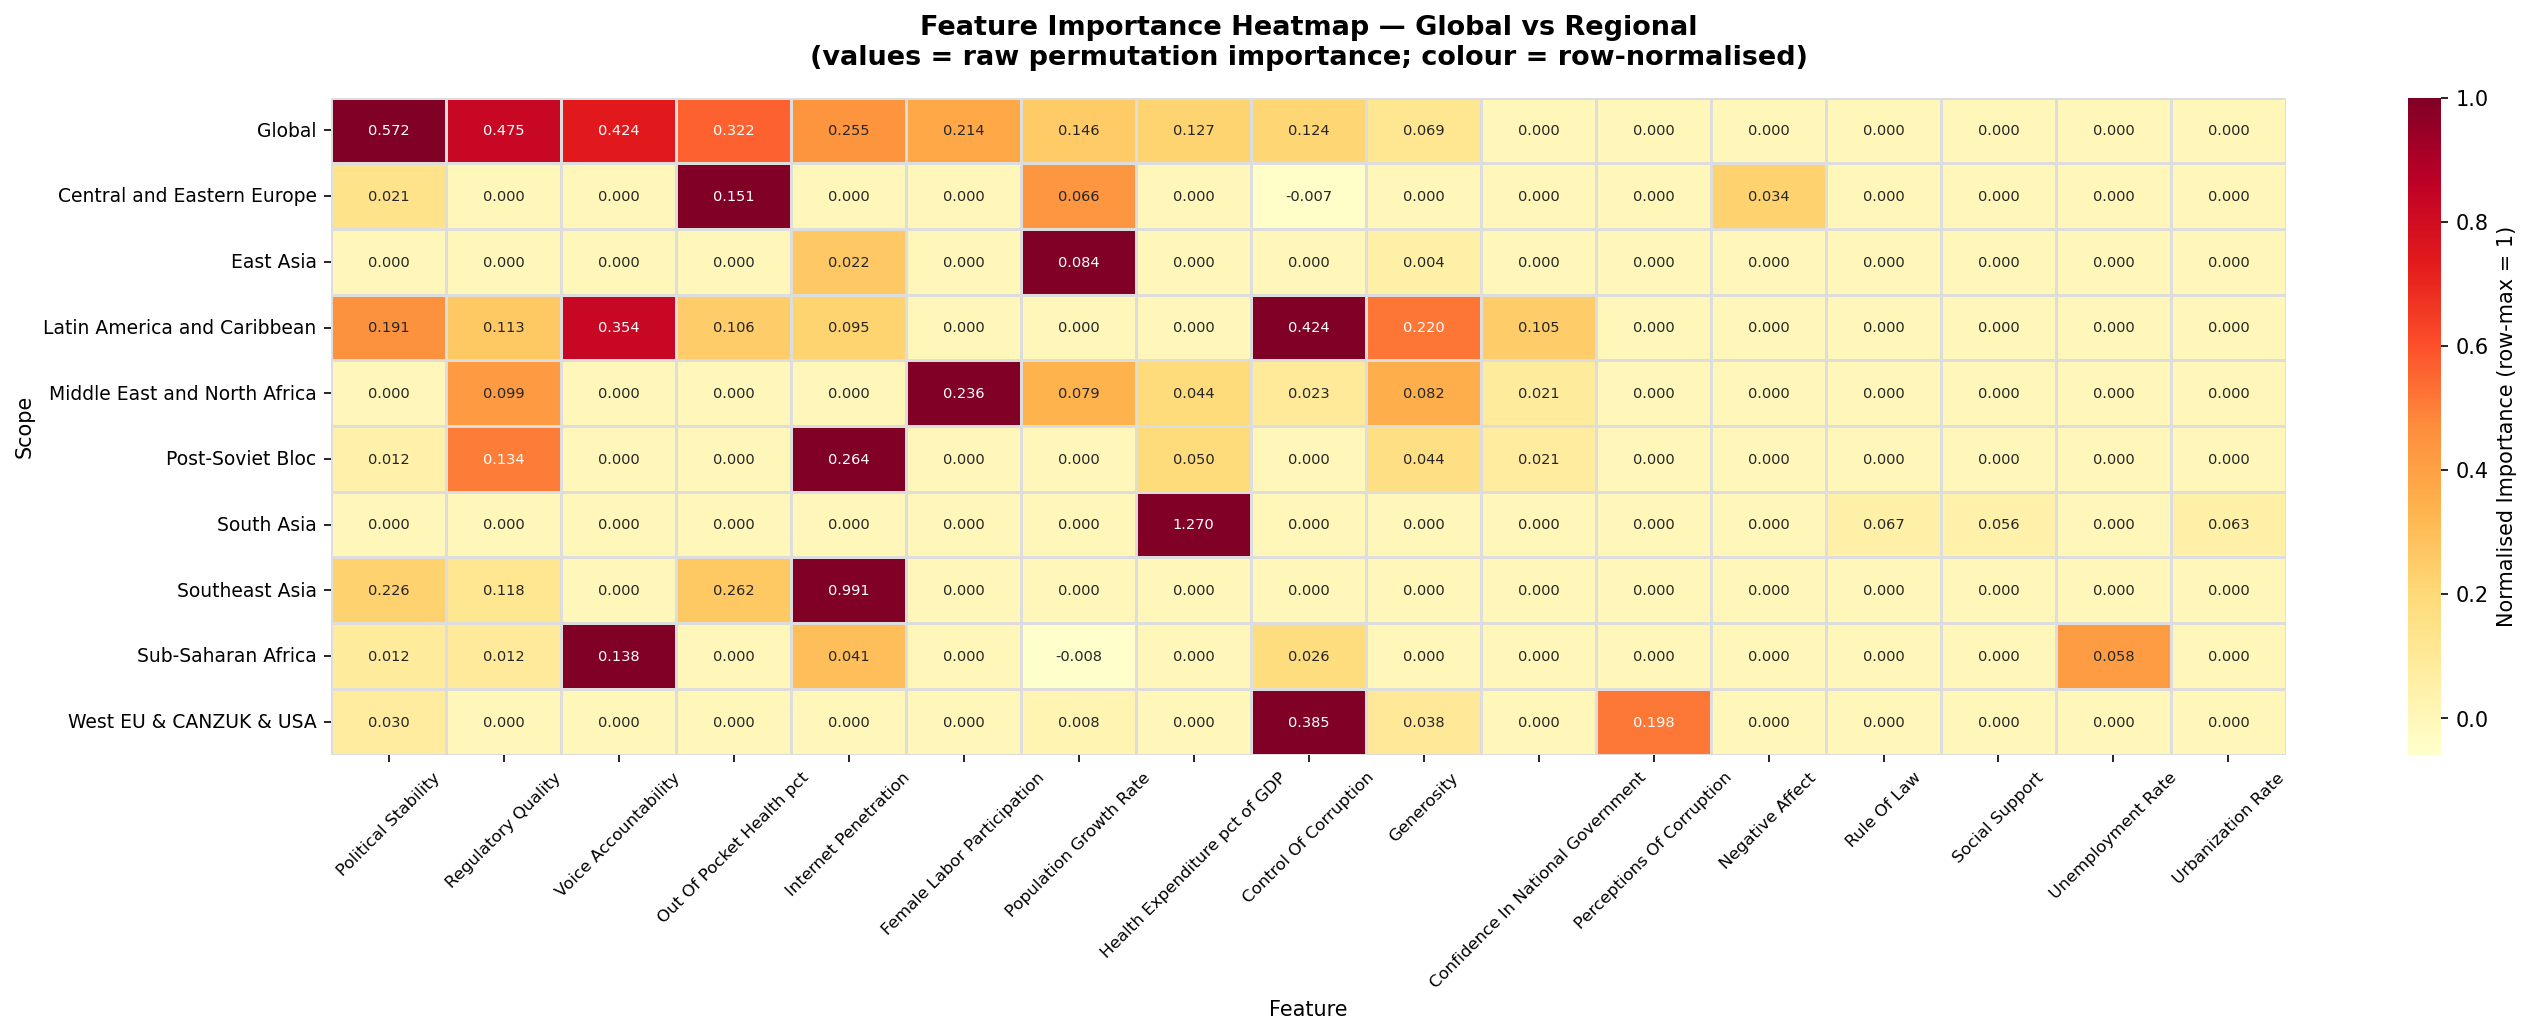
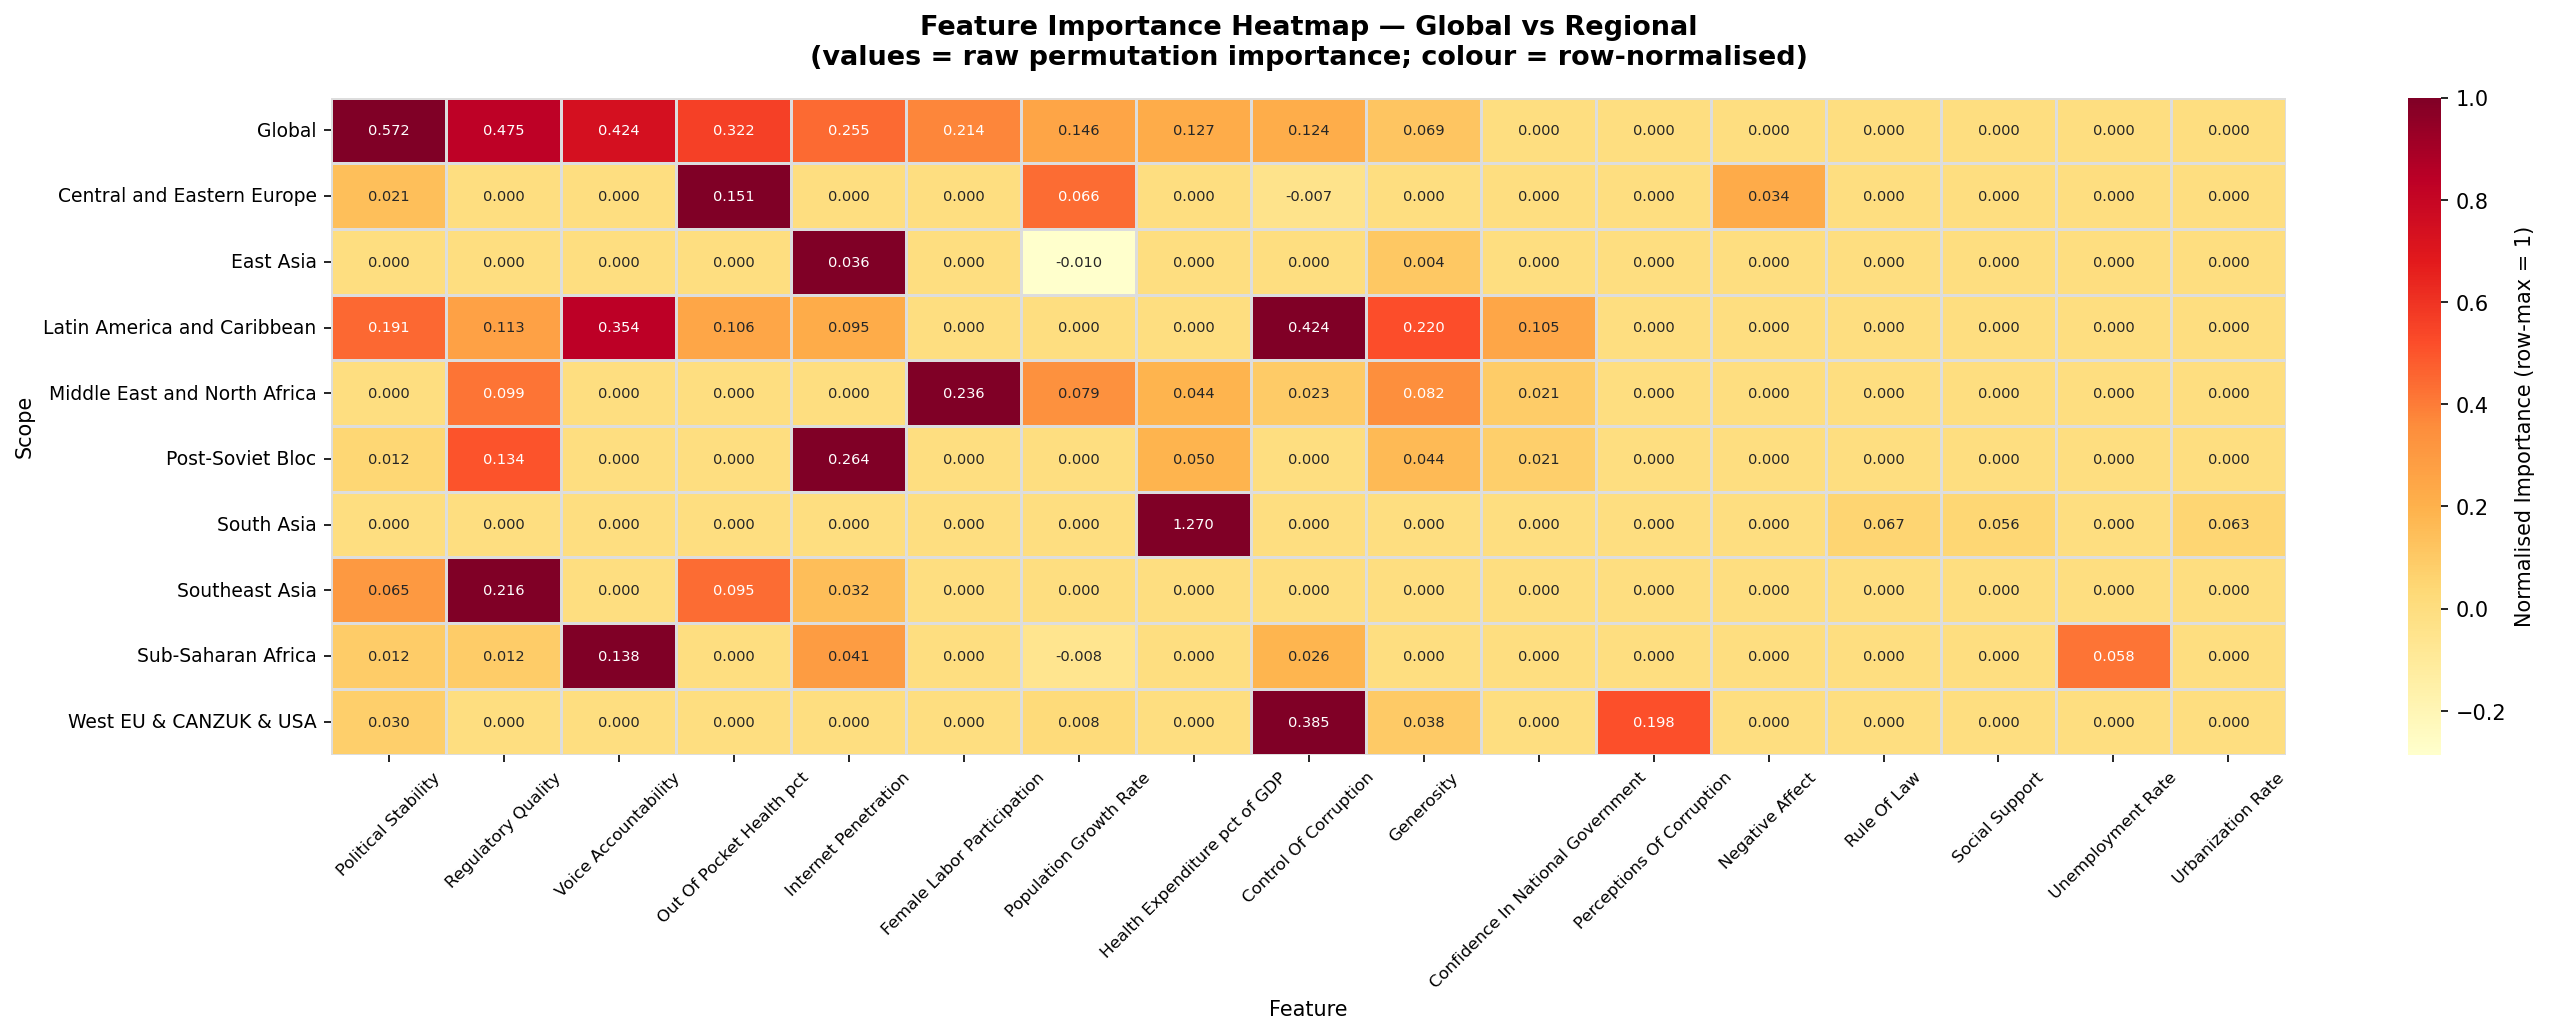
my granny asid travvy you work you much i worry you forget about me
ball ball ball

diff --git a/HZ_WH_helper_functions.py b/HZ_WH_helper_functions.py
@@ -29,6 +29,8 @@ so it won't run until you move it there.
 
 Fetching can take 10-30 minutes depending on API server load.
 
+This function is written by agentic AI
+
 """
 
 